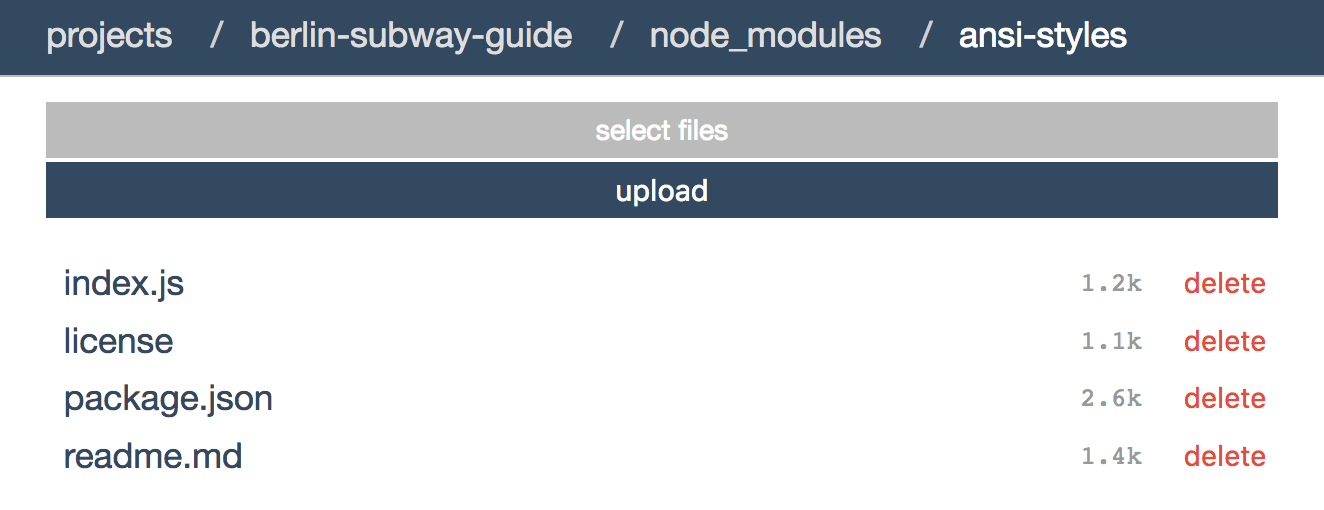
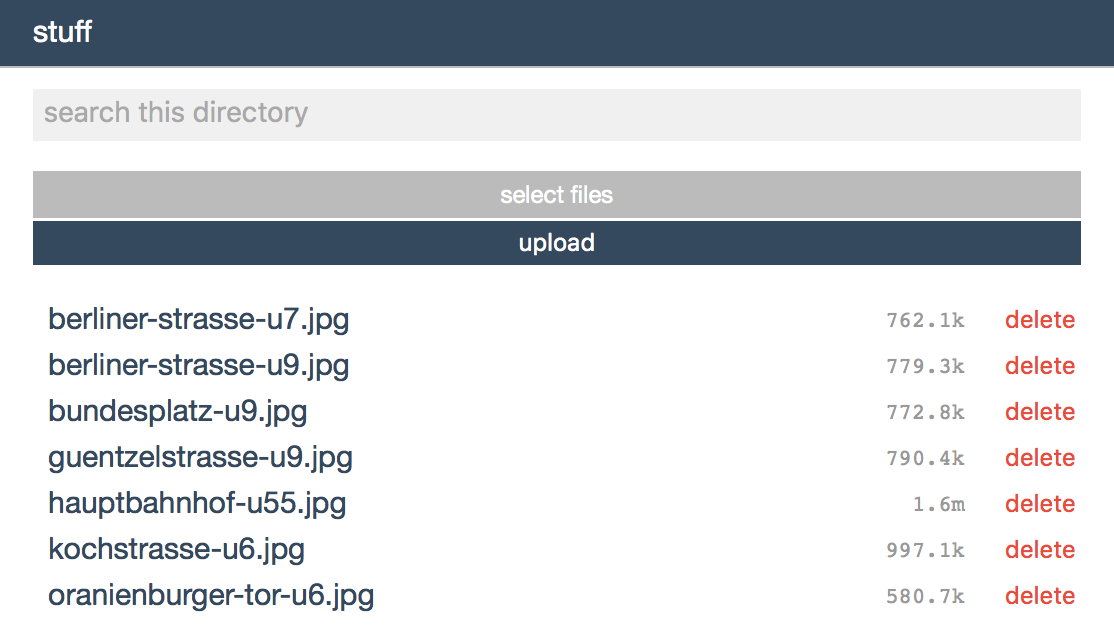
docs :memo:, 1.1.0

diff --git a/README.md b/README.md
@@ -1,6 +1,6 @@
 # *casket*
 
-***casket* is an HTTP server** that supports `GET`, `POST` and `DELETE` requests. It can respond in HTML, JSON and plain text format, **the HTML-version being a file management UI**.
+***casket* is an HTTP server** that supports `GET`, `POST` and `DELETE` requests. It can respond in HTML, JSON and plain text format, **the HTML-version being a file management UI**. It also supports file search [using Spotlight](https://github.com/derhuerst/node-spotlight).
 
 ![casket serving a directory](demo.png)
 
